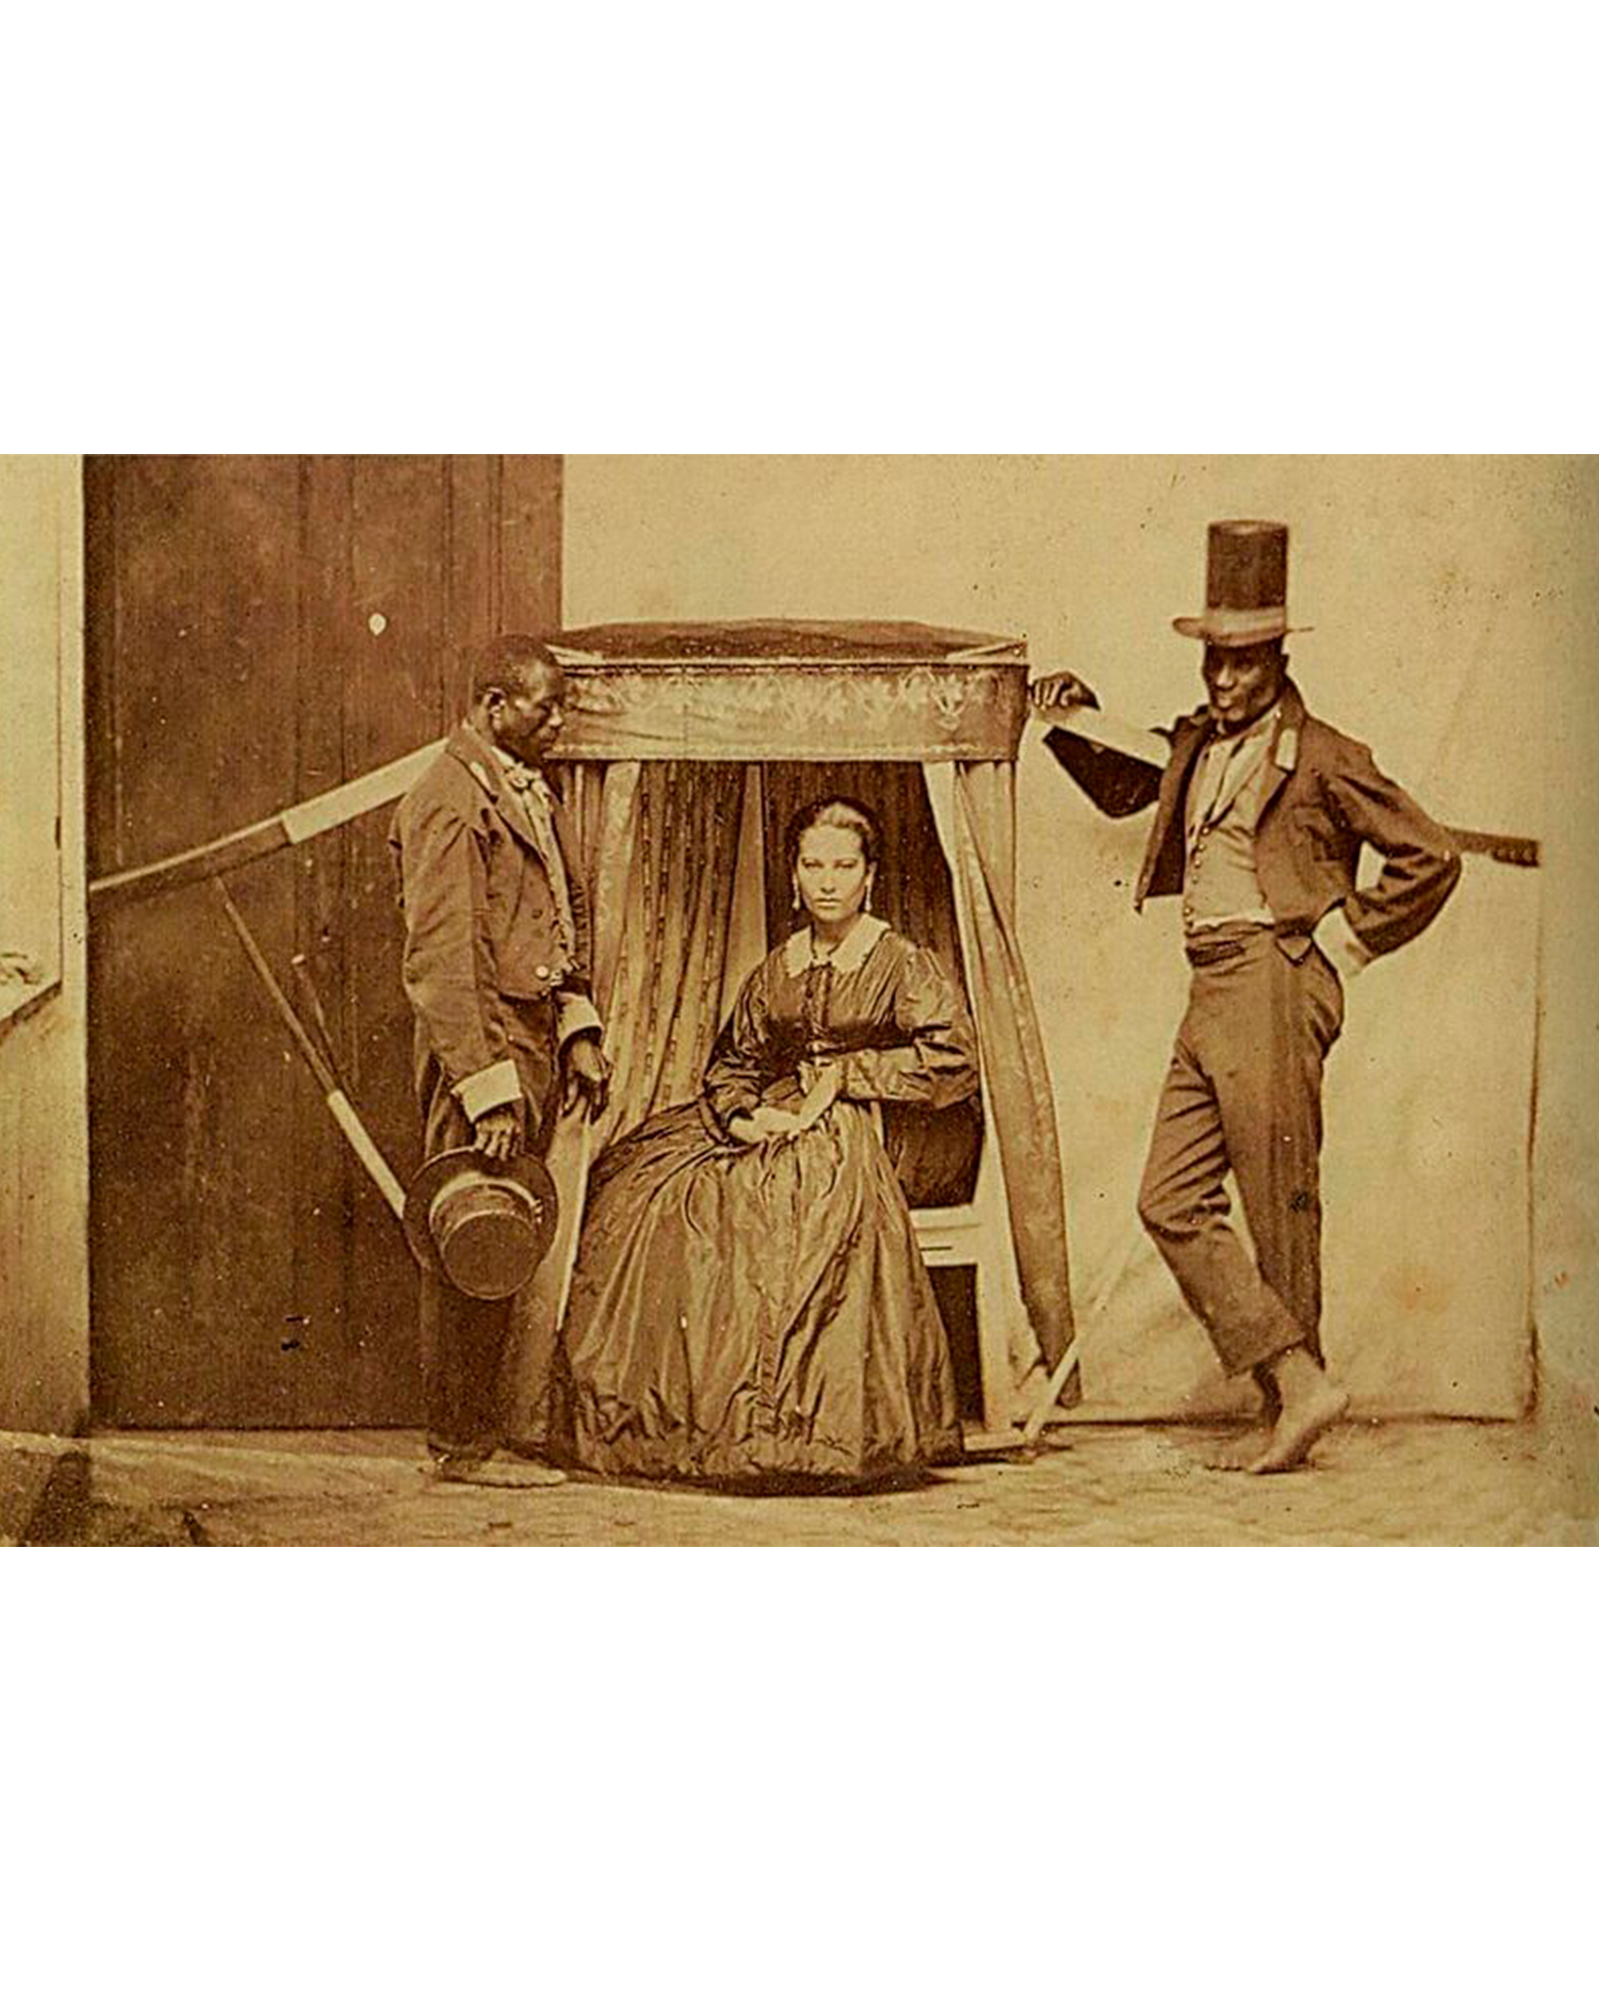
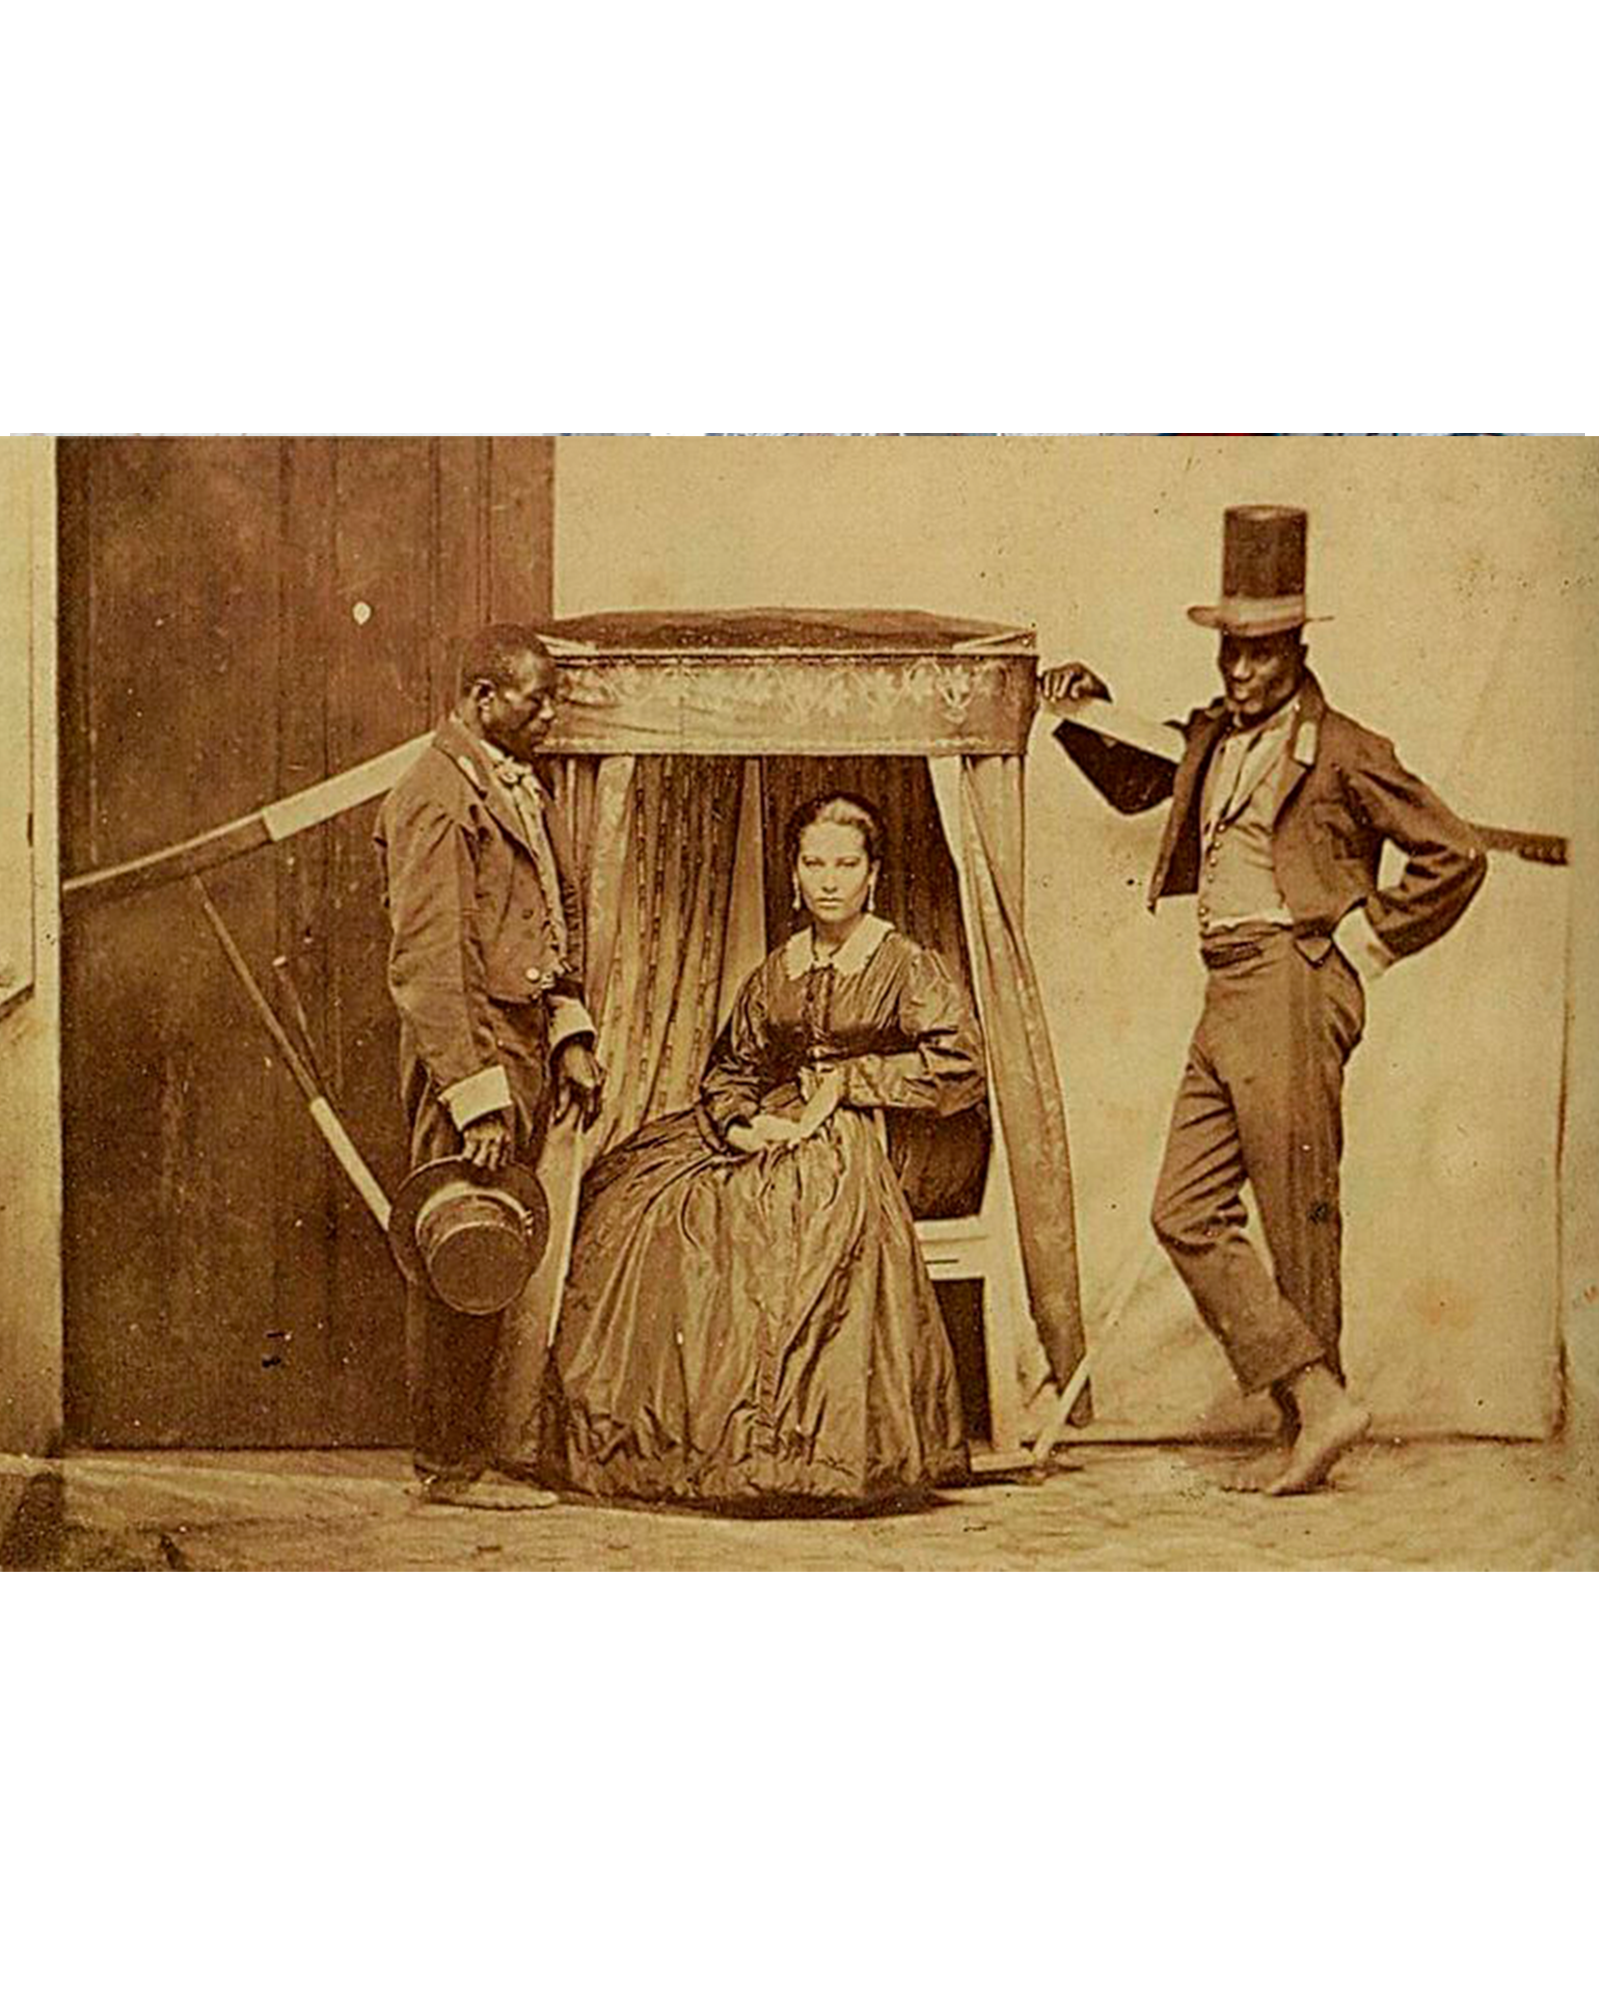
carousel image fitting/ missing css

Changed region(s): [[0.0, 0.2169, 1.0, 0.8056], [0.1226, 0.2789, 0.1532, 0.3408]]

diff --git a/src/components/CarouselSlick/index.css b/src/components/CarouselSlick/index.css
@@ -6,14 +6,14 @@
 
 .carousel{
     padding: 5rem;
-    background-color: #000;
+    background-color:rgb(201, 165, 234);
     color: antiquewhite;
-    height: 100vh;
+    height: 80vh;
     width: 100vw;
 }
 
 .box{
-    background-color: lightgreen;
+    /* background-color: lightgreen; */
     height: 200px;
     /* width: 220px !important; */
 }
@@ -34,6 +34,14 @@
     top: 2rem !important;
 }
 
+img{
+    object-fit:cover;
+  
+}
+.box img{
+    width: 100%;
+    height: 100%;
+}
 
 /* 
 @media screen and (max-width: 810px){
@@ -44,13 +52,29 @@
 }
 */
 @media screen and (max-width: 428px){
-    .slick-initialized .slick-slide{
-        margin: 0 0 -2rem 0rem !important;
-        /* height: 220px !important; */
+     .slick-initialized .slick-slide{
+        /* margin: 0 0 -2rem 0rem !important; */
+        height: 280px !important;
+   
     }
-
+/*
     .slick-slide div {
         margin: 0 0rem  !important; 
+    } */
+
+    img{
+        margin: 4rem 0 0 0 ;/*-5rem 0 0  0.65rem ;*/
+        object-fit:cover;
+        width: 555px;
+        height: 570px;
+        /* height: 630px; */
+        padding: 0;
+        margin-left: -10px;
+    }
+
+    .box img{
+        width: 100%;
+        height: 100%;
     }
 
 } 

diff --git a/src/components/CarouselSlick/index.jsx b/src/components/CarouselSlick/index.jsx
@@ -47,28 +47,38 @@ function CarouselNovo() {
 
       <Slider {...settings}>
           
-        <div className="box" id='box'>
-          <h3>1</h3>
+        <div className="box">
+         
+         
           <img src="images/01JeanBaptisteDebret1823.png" alt="" />
+          {/* <div className="box-body">
+            <h2> A Brazilian Lady in her interior</h2>
+            <h3> Jean Baptiste Debret, 1823 </h3>
+            <h4>category: 'Whitecentrism</h4>
+
+          </div> */}
         </div> 
 
         <div className="box">
-          <h3>2</h3>
+         
+         
           <img src="images/posterHumanZoo.png" alt="" />
         </div> 
         <div className="box">
-          <h3>3</h3>
+          
           <img src="images/policia-criancasnegras2.png" alt="" />
         </div> 
 
         <div className="box">
-          <h3>4</h3>
+          
           <img src="images/SenhoraEscravos1860.png" alt="" />
         </div> 
 
 
         <div className="box">
-          <h3>5</h3>
+          
+          <img src="images/policia-criancasnegras2.png" alt="" />
+
         </div> 
       </Slider>  
 
